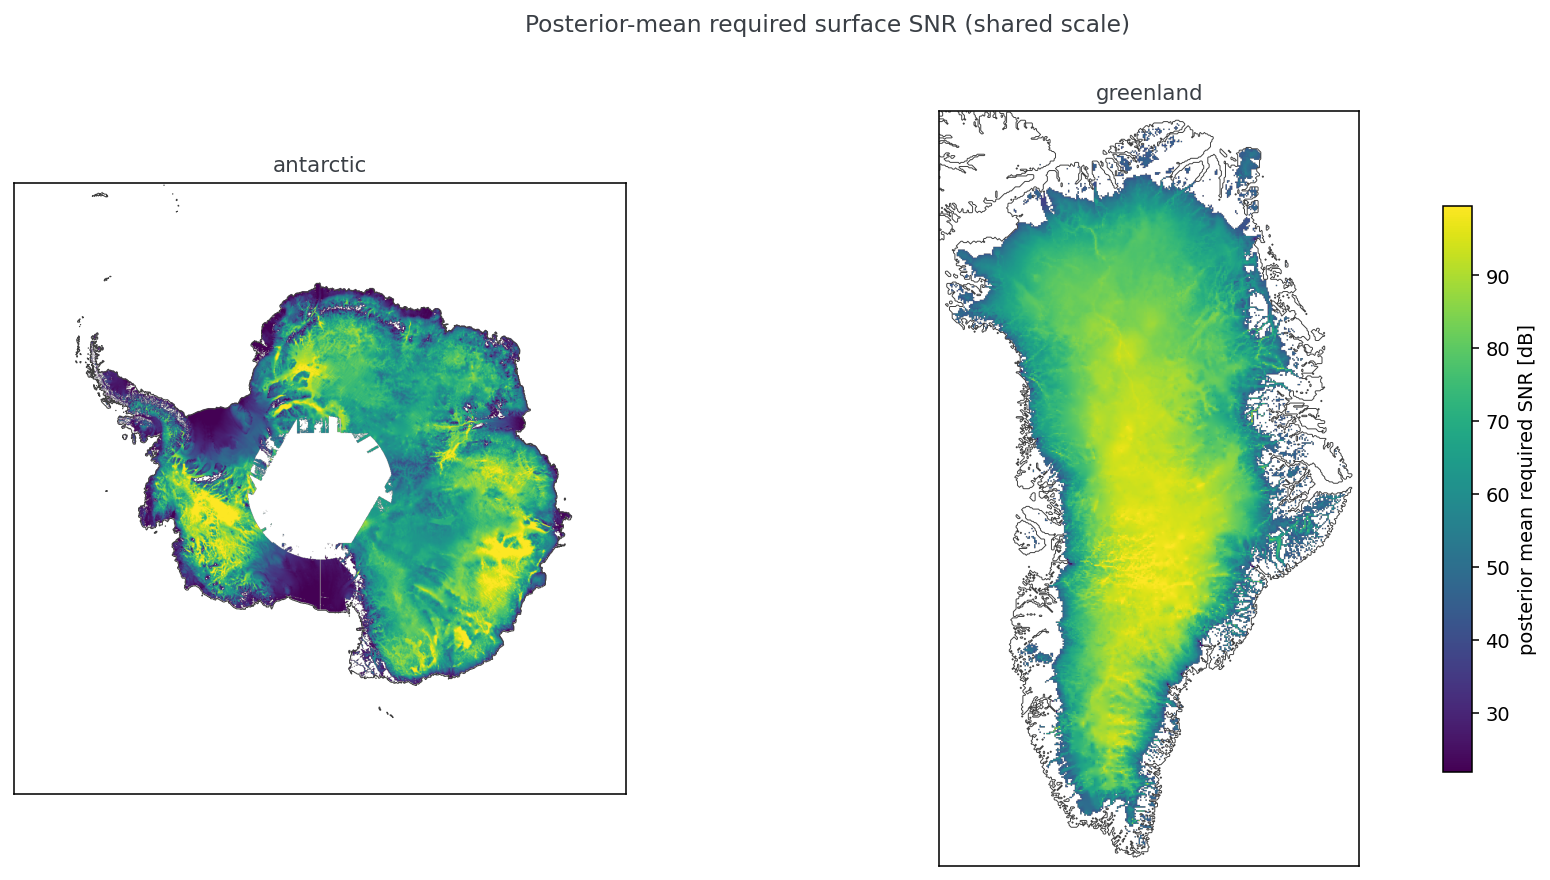
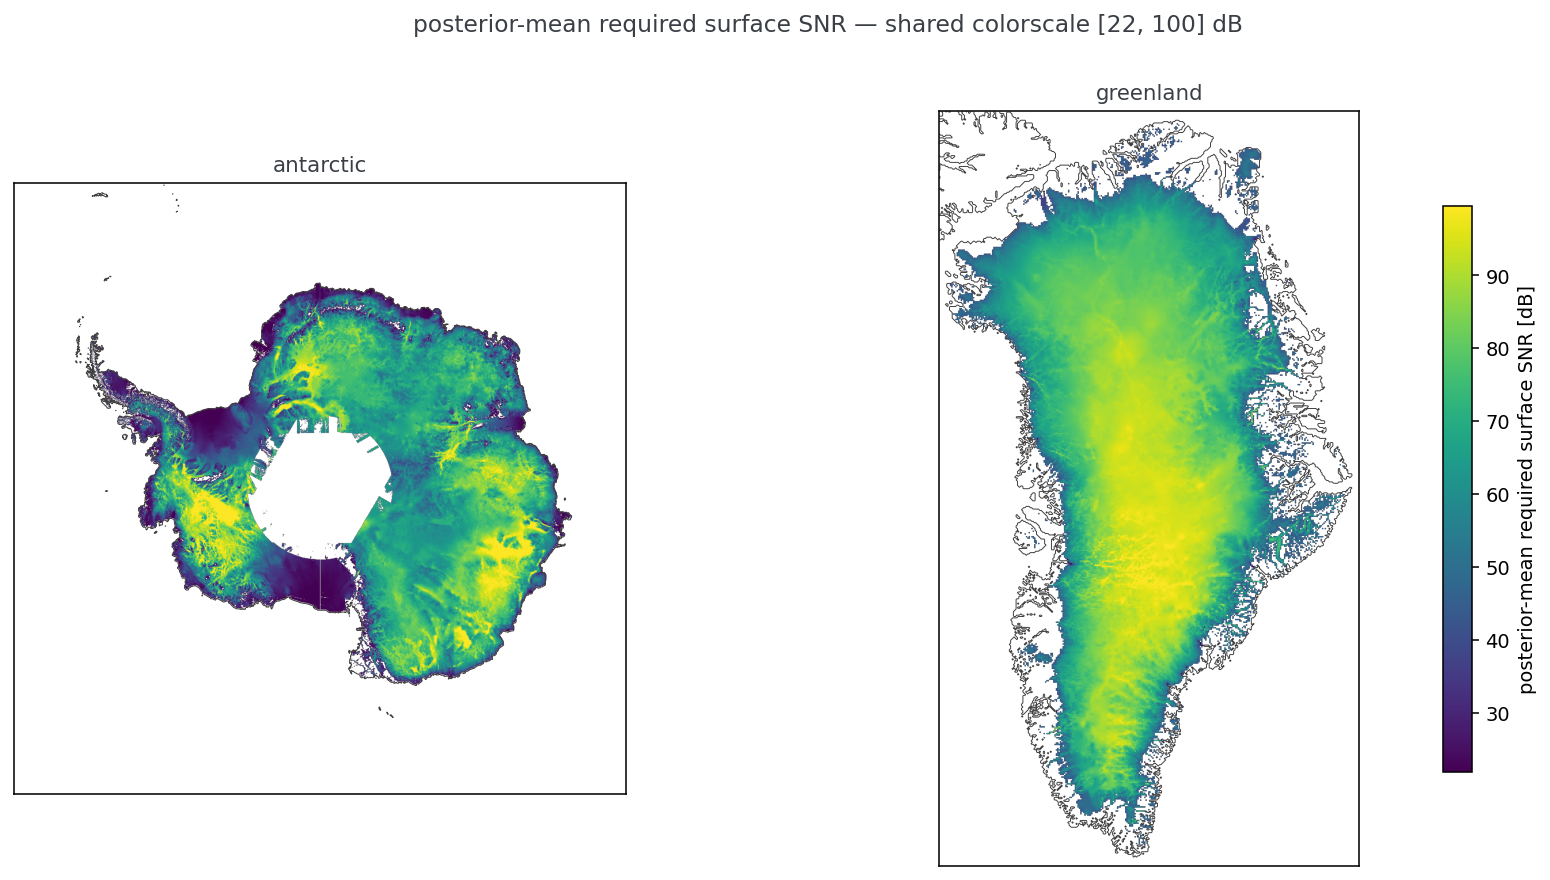
Docs cleanups and typos

Changed region(s): [[0.2787, 0.0, 0.8052, 0.0614], [0.96, 0.3375, 0.991, 0.7977]]

diff --git a/docs/3_model.md b/docs/3_model.md
@@ -1,6 +1,6 @@
 ## The statistical model
 
-We model RSSNR using a Bayesian model that reflects the basic physics in it's structure. Note that this model is slightly different from Schroeder et al., 2021. In that work, we choose a fully linear model for simplicity. Here we adopt a physics-informed model that includes (learned) attenuation rate and basal reflectivity values. We strongly caution against over-interpretation of these two values. This model is not intended to estimate attenuation rate or basal reflectivity indepdently from the other.
+We model RSSNR using a Bayesian model that reflects the basic physics in its structure. Note that this model is slightly different from Schroeder et al., 2021. In that work, we chose a fully linear model for simplicity. Here we adopt a physics-informed model that includes (learned) attenuation rate and basal reflectivity values. We strongly caution against over-interpretation of these two values. This model is not intended to estimate attenuation rate or basal reflectivity independently from the other.
 
 All inputs are converted to z-scores.
 
@@ -25,15 +25,15 @@ Two observation-side layers handle the missingness honestly, adding just two mor
 P(pick | RSSNR) = Φ((C − RSSNR − θ) / τ)
 ```
 
-where `C` is the trace's measured detectability ceiling (surface power, geometry, and the pick-independent at-depth noise floor). Picked points carry that selection factor; non-detections contribute the closed-form marginal `P(no pick) = Φ((μ − (C − θ)) / sqrt(τ² + σ²))`.
+where `C` is the trace's measured detectability ceiling (surface power, geometry, and the pick-independent at-depth noise floor). Picked points carry that selection factor; non-detections contribute the closed-form marginal `P(no pick) = Φ((μ − (C − θ)) / sqrt(τ² + σ²))` (with σ expressed in dB).
 
-Note that a gap only counts as a non-detection if the radar window at the expected bed depth is statistically indistinguishable from noise (window peak − median, δ < 8 dB). This is intended to exclude cases where clutter, not the noise floor, limits detectability. The RSSNR model is not well-suited to determining clutter budgets, so we explicilty try to avoid estimating this case.
+Note that a gap only counts as a non-detection if the radar window at the expected bed depth is statistically indistinguishable from noise (window peak − median, δ < 8 dB). This is intended to exclude cases where clutter, not the noise floor, limits detectability. The RSSNR model is not well-suited to determining clutter budgets, so we explicitly try to avoid estimating this case.
 
 In total, there are 13 learned parameters, all with physically interpretable meaning. (Though we discourage over-interpretation of the model results. This is an engineering tool, not a scientific data product to determine properties of the ice sheets.)
 
 ## Fitting
 
-The model is implemented in PyMC and fitted with NUTS with 4 chains.
+The model is implemented in PyMC and fitted with NUTS with 4 chains (the cross-validation fits use 2 chains to save time; every fit is seeded).
 
 ## Results
 
@@ -50,12 +50,34 @@ export EARTHDATA_USERNAME=... EARTHDATA_PASSWORD=...
 # Everything: augment both stores, build grid + split, train, benchmark
 uv run snakemake --cores 4 --rerun-triggers=mtime -- model_all
 
-# TODO: Generate plots
+# Generate the plots below:
+# Regional histograms with posterior-predictive overlays
+uv run python scripts/region_distributions.py --model atten_refl
+cp outputs/model/analysis/region_histograms_atten_refl_ppc.png docs/figures/region_histograms_ppc.png
+# Prediction maps (mean + 80th percentile) and the combined obs-vs-PPC histogram
+uv run python scripts/prediction_summary_figures.py
+cp outputs/model/analysis/map_pred_mean.png outputs/model/analysis/map_q80.png \
+   outputs/model/analysis/hist_obs_vs_ppc_sheets.png docs/figures/
+# Posterior distributions in physical units (with CV/test RMSE labels)
+uv run python scripts/posterior_physical.py
+cp outputs/model/analysis/posterior_physical.png docs/figures/
 ```
 
-The cross-validation estimated RMSE, held-out test set RMSE, and posterior distributions of each variable are shown in the table below:
+The headline accuracy and calibration numbers:
 
-// TODO
+| quantity | value |
+|---|---|
+| CV RMSE (5-fold, spatially blocked) | 14.92 dB (fold range 14.13–16.77) |
+| CV 1σ coverage | 0.68 |
+| Held-out test RMSE | 14.39 dB (n = 1,433 + 90 censored) |
+| Held-out test 1σ coverage | 0.70 |
+| Fully-linear baseline (same layers) | CV 15.68 dB / test 14.56 dB |
+| Sampler diagnostics | 0 divergences, R̂ ≤ 1.002 |
+
+Posterior distributions of all 13 learned parameters, converted to physical units (the z-score normalization is an invertible affine transform, and the normalizer constants are stored in `posterior.nc`, so this conversion is exact). Attenuation-side parameters become two-way dB/km via σ_target/σ_thickness; reflectivity-side parameters become dB contributions to RSSNR (sign-flipped for the −refl convention); covariate effects are fully per-unit (e.g. dB/km/K, dB/km/(mW/m²)); θ, τ, and σ are natively in dB. Intercept-like values are referenced to the mean covariate conditions of the training set.
+
+![Posterior distributions in physical units](figures/posterior_physical.png)
+*Posteriors in physical units, with the headline CV and held-out test RMSE. The 18.8 dB/km one-way (37.5 two-way) depth-averaged attenuation rate at mean conditions falls in the physically expected range — a sanity check the z-scored values cannot provide. Posterior widths are small because n ≈ 21k; the meaningful uncertainty is the 15 dB residual σ, not parameter doubt.*
 
 The distribution of observed and posterior predicted RSSNR values are shown below by ice sheet:
 
@@ -69,9 +91,9 @@ Two things are notable about this plot:
 ![PPC region histograms](figures/region_histograms_ppc.png)
 *The same comparison split by region, with point predictions (dashed) added.*
 
-This effect varies by region. Regions with generally lower RSSNR (such as the Antarctic Peninsula) do not show the saturation effect and the posterior predictive distribution roughly matches the observations. Souther Greenland shows the most extreme case of the observed values saturating and the model predicting a longer tail.
+This effect varies by region. Regions with generally lower RSSNR (such as the Antarctic Peninsula) do not show the saturation effect and the posterior predictive distribution roughly matches the observations. Southern Greenland shows the most extreme case of the observed values saturating and the model predicting a longer tail.
 
-The plots above show both the mean predictions and the posterior predictive distribution. The much larger spread of the posterior predictive distributions reflects the $\sigma$ noise term in the model and it's estimate of a fairly large uncertainty component to the model.
+The plots above show both the mean predictions and the posterior predictive distribution. The much larger spread of the posterior predictive distributions reflects the $\sigma$ noise term in the model and its estimate of a fairly large uncertainty component to the model.
 
 Maps of the mean and 80th percentile predictions for both ice sheets are shown below:
 

diff --git a/docs/2_input_data.md b/docs/2_input_data.md
@@ -6,7 +6,7 @@ This dataset has several advantages over past efforts:
 
 1. It's a very large dataset, spanning more than a decade of surveying across both ice sheets and multiple institutions
 2. It contains data from multiple radar sounder instruments, including significant overlaps to do cross-comparisons between them
-3. All of the data is processed through the same pipeline, which reduces the changes of processing artifacts significantly biasing results
+3. All of the data is processed through the same pipeline, which reduces the chances of processing artifacts significantly biasing results
 
 ## Dataset access and augmentation
 
@@ -27,7 +27,7 @@ Traces with radar-derived thickness under 100 m are dropped. (This is configured
 
 ## Do the surveys agree with each other?
 
-The full dataset represents more than a decade of data spanning multiple radar instrument generations and two different lineages (CReSIS's MCoRDS and UTIG's HiCARS/MARFA radars). Before pooling this data, it's worth asking whether they measure the same thing. Wherver these flight lines cross (defined as within 500 m here), we can look for biases between seasons.
+The full dataset represents more than a decade of data spanning multiple radar instrument generations and two different lineages (CReSIS's MCoRDS and UTIG's HiCARS/MARFA radars). Before pooling this data, it's worth asking whether they measure the same thing. Wherever these flight lines cross (defined as within 500 m here), we can look for biases between seasons.
 
 Each cell shows the median difference in RSSNR and the standard deviation of those differences. Diagonal elements represent self-intersections. The standard deviation of these self-intersections provides some metric of the noise level within the dataset.
 
@@ -39,14 +39,15 @@ Each cell shows the median difference in RSSNR and the standard deviation of tho
 
 To reproduce these figures:
 ```
-# If you haven't yet, you'll need to run the augmentation pipeline:
-uv run snakemake --cores 4 all
+# If you haven't yet, you'll need to run the augmentation pipeline for both stores:
+uv run snakemake --cores 4 --config store=antarctica
+uv run snakemake --cores 4 --config store=greenland
 # Then:
 uv run python scripts/season_crossover_matrix.py
 cp outputs/model/analysis/season_crossover_matrix_*.png docs/figures/
 ```
 
-There are two notable outlier seasons: `2017_Antarctica_BaslerJKB` and `2013_Greenland_P3`. These two seasons show significant stitching artifacts that likely explain these offsets. They are excluded from further analysis for now.
+There are two notable outlier seasons: `2017_Antarctica_Basler` and `2013_Greenland_P3`. These two seasons show significant stitching artifacts that likely explain these offsets. They are excluded from further analysis for now.
 
 > **Stitching artifacts:** Both the MCoRDS and HiCARS/MARFA systems rely on some sort of stitching across either multiple distinct waveforms or ADC channels to achieve their roughly ~100-120 dB dynamic range. If this stitching is incorrectly calibrated, it can artificially make the bed return stronger or weaker relative to the surface than it actually is. More effectively detecting and filtering this out is an ongoing area of work.
 
@@ -59,8 +60,15 @@ Jumping ahead a little bit (this part depends on a model to train), another way 
 
 To reproduce this figure:
 ```
-# TODO
+# Requires the trained pipeline (see the Results section of the model doc).
+# Re-runs the 5-fold spatially-blocked CV collecting out-of-fold predictions
+# under the current config (~10 minutes):
+uv run python scripts/residual_audit.py
+cp outputs/model/analysis/residuals_by_season.png docs/figures/
 ```
+
+Note that this figure reflects the current configuration, in which the two
+outlier seasons above are already excluded.
 
 There is certainly room for improvement here (or perhaps just further calibration), but there is no obvious pattern of dramatic outlier seasons or instruments.
 
@@ -69,7 +77,7 @@ There is certainly room for improvement here (or perhaps just further calibratio
 
 Predictions live on a regular ~5 km grid derived from the BedMachine ice mask: 1334×1334 cells (5 km, EPSG:3031) for Antarctica and 556×310 (4.95 km, EPSG:3413) for Greenland — about 616k ice grid points (541k + 75k). Each grid point takes its nearest *attempted* radar trace within 1 km: a picked trace contributes an observed RSSNR (and its noise-floor margin), an unpicked one marks the grid point as a non-detection and contributes its detectability ceiling.
 
-Radar observations are strongly correlated along flight lines. We use spatial blocking (Roberts et al., 2016) to mitigate the effects of spatial correlation. The input data is divided into 500 km square cells in each sheet's projected coordinates. Eight hand-picked cells are held out entirely as a test set and the remaining cells are assigned randomly to five cross-validation folds. Test cell assignments are shown below.
+Radar observations are strongly correlated along flight lines. We use spatial blocking (Roberts et al., 2017) to mitigate the effects of spatial correlation. The input data is divided into 500 km square cells in each sheet's projected coordinates. Eight hand-picked cells are held out entirely as a test set and the remaining cells are assigned randomly to five cross-validation folds. Test cell assignments are shown below.
 
 ![Antarctic blocking cells](figures/cells_antarctic.png)
 *Antarctic 500 km blocking cells with per-cell observation counts; red outlines are held-out test cells.*
@@ -79,5 +87,7 @@ Radar observations are strongly correlated along flight lines. We use spatial bl
 
 To reproduce these figures:
 ```
-# TODO
+# The split stage draws the cell maps as a side product:
+uv run snakemake --cores 4 --rerun-triggers=mtime -- outputs/model/split.parquet
+cp outputs/model/cell_maps/cells_antarctic.png outputs/model/cell_maps/cells_greenland.png docs/figures/
 ```

diff --git a/docs/1_rssnr_background.md b/docs/1_rssnr_background.md
@@ -50,7 +50,7 @@ $ \text{RSSNR} = \frac{P_\text{surface}}{P_\text{bed}} \frac{h^2}{(h+d/n)^2} \ap
 
 For a high-altitude system ($h \gg d$), the RSSNR tells us the SNR we need at the surface in order to have 0 dB SNR at the bed. If we have some target SNR on the bed (say, 10 dB), then we add that to our RSSNR to get the desired surface SNR.
 
-This works for low-altitude sytems as well, but we additionally have to correct for the geometric spreading term. The plot below shows the magnitude of this correction. As you can see, it's extremely important for systems flying at < 1 km, but it can mostly be ignored for anything above 10 km.
+This works for low-altitude systems as well, but we additionally have to correct for the geometric spreading term. The plot below shows the magnitude of this correction. As you can see, it's extremely important for systems flying at < 1 km, but it can mostly be ignored for anything above 10 km.
 
 ![RSSNR Geometric Spreading with Altitude](figures/rssnr_altitude.png)
 
